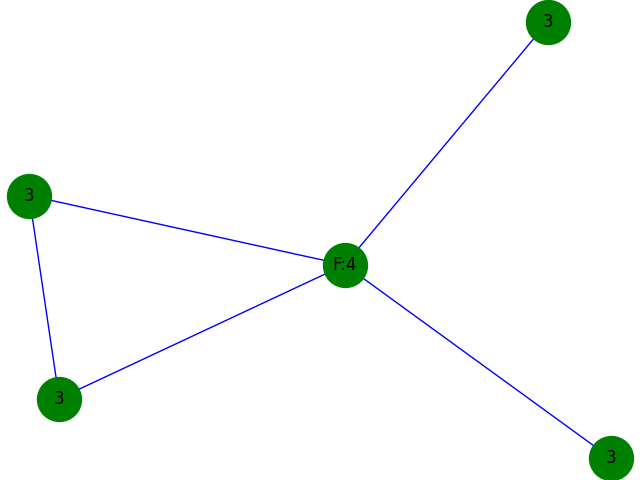
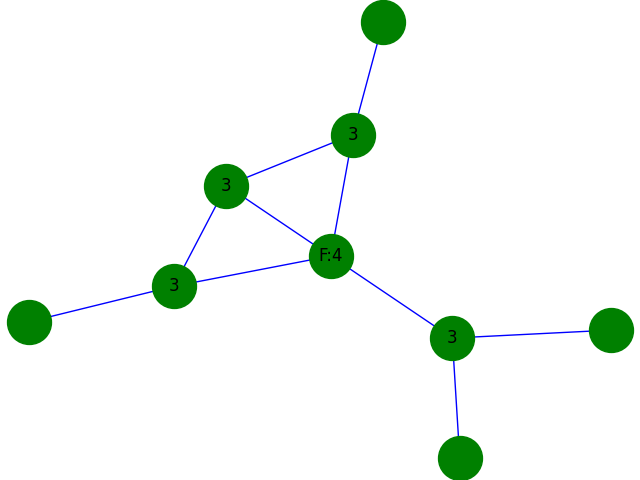
draw

diff --git a/worstCase.py b/worstCase.py
@@ -111,20 +111,23 @@ class worstCase:
 
     def draw(self):
         labeldict = {}
-        labeldict[self.graphCheck.getFather()] = 'F:' +str( self.graphCheck.getFather().getD())
+        labeldict[self.graphCheck.getFather()] = 'F:' + str(self.graphCheck.getFather().getD())
         for each in self.graphCheck.getVertex():
             self.nxG.add_edge(self.graphCheck.getFather(), each)
             labeldict[each] = each.getD()
         for i in range(len(self.edgesCheck)):
             for j in range(len(self.edgesCheck[i])):
                 if self.edgesCheck[i][j] == 1:
-                    self.nxG.add_edge(self.graphCheck.getVertex()[i],
+                    self.nxG.add_edge(self.graphCheck.getVertex()[i+1],
                                       self.graphCheck.getVertex()[j])
-
-        nx.draw(self.nxG, labels=labeldict, with_labels=True, edge_color='b', node_color='g', node_size=1000)
+        for v in list(self.nxG.nodes):
+            b = list(self.nxG.neighbors(v))
+            for i in range(v.getD()-len(b)):
+                self.nxG.add_edge(Vertex(0), v)
+        nx.draw_kamada_kawai(self.nxG, labels=labeldict, with_labels=True, edge_color='b', node_color='g',
+                node_size=1000)
         plt.savefig(str(self.graphCheck.getS()))
         plt.show()
-
 
     def getBranchCheck(self):
         return self.branchCheck

diff --git a/old/test.py b/old/test.py
@@ -1,0 +1,17 @@
+import matplotlib.pyplot as plt
+import networkx as nx
+
+nxG = nx.Graph()
+
+for i in range(5):
+    nxG.add_node(i)
+
+for i in range(4):
+    nxG.add_edge(0,i+1)
+
+nxG.add_edge(1,2)
+nxG.add_edge(2,3)
+
+nx.draw(nxG,  with_labels=True, edge_color='b', node_color='g',
+                node_size=1000)
+plt.show()
